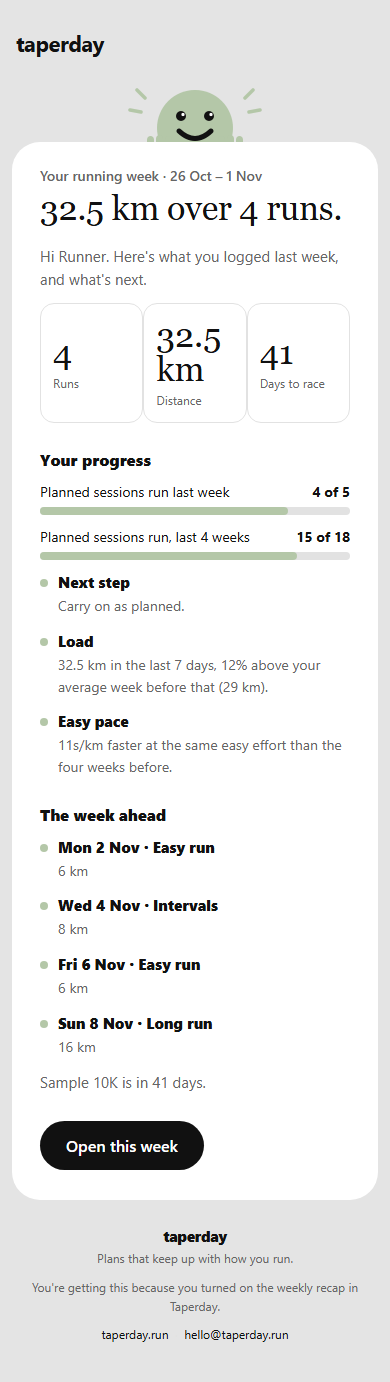
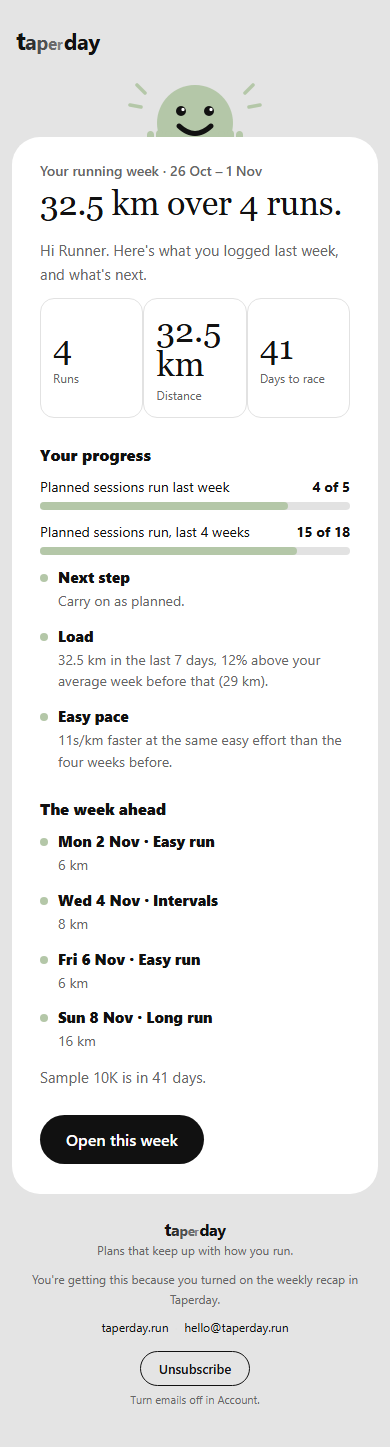
Brand: tapered wordmark in emails and loading screen; Unsubscribe button in every email (#164)

diff --git a/client/public/boot.css b/client/public/boot.css
@@ -6,5 +6,12 @@ html { color-scheme: light dark; background: #e4e4e4; }
 }
 .boot-screen { position: fixed; inset: 0; display: grid; align-content: center; justify-items: center; gap: 1rem; padding: 1rem; background: #e4e4e4; color: #3a3a3a; font: 1rem/1.5 system-ui, sans-serif; }
 .boot-screen p { margin: 0; }
-.boot-screen .boot-brand { color: #111111; font-size: 2rem; font-weight: 800; letter-spacing: -0.03em; }
+/* The logo (docs/brand.md): "taper" steps down a size and a shade per letter, "day" comes back full size. */
+.boot-screen .boot-brand { display: inline-flex; align-items: baseline; color: #111111; font-size: 2rem; font-weight: 700; letter-spacing: -0.03em; line-height: 1; }
 .boot-brand span { color: #111111; }
+.boot-brand .bw1 { font-size: 1.12em; }
+.boot-brand .bw2 { opacity: 0.85; }
+.boot-brand .bw3 { font-size: 0.88em; opacity: 0.7; }
+.boot-brand .bw4 { font-size: 0.79em; opacity: 0.58; }
+.boot-brand .bw5 { font-size: 0.7em; opacity: 0.48; }
+.boot-brand .bwd { margin-left: 0.06em; }

diff --git a/client/index.html b/client/index.html
@@ -34,7 +34,7 @@
   </head>
   <body>
     <link rel="stylesheet" href="/boot.css" />
-    <div id="root"><div class="boot-screen" role="status"><p class="boot-brand">Taper<span>day</span></p><p>Loading your running plan…</p><noscript>Enable JavaScript to build a plan.</noscript></div></div>
+    <div id="root"><div class="boot-screen" role="status"><p class="boot-brand" role="img" aria-label="Taperday"><span class="bw1">t</span><span class="bw2">a</span><span class="bw3">p</span><span class="bw4">e</span><span class="bw5">r</span><span class="bwd">day</span></p><p>Loading your running plan…</p><noscript>Enable JavaScript to build a plan.</noscript></div></div>
     <script type="module" src="/src/main.tsx"></script>
   </body>
 </html>

diff --git a/src/StartLine.Application/Features/Insights/EmailLayout.cs b/src/StartLine.Application/Features/Insights/EmailLayout.cs
@@ -25,10 +25,10 @@ public static class EmailLayout
 
     /// <summary>
     /// The whole email around a body: preheader, mascot, kicker and title, the body, one button and the footer. With an
-    /// <paramref name="unsubscribeUrl"/>, the footer ends with an Unsubscribe link: every email to runners that isn't
-    /// about their own account needs one.
+    /// <paramref name="unsubscribeUrl"/> (a runner's key for this email's list, <paramref name="unsubscribeFrom"/>), the footer's
+    /// Unsubscribe button stops that list; without one it goes to Account. Every email has the button.
     /// </summary>
-    public static string Wrap(string preheader, string kicker, string title, string body, string buttonText, string buttonUrl, string footer, string? unsubscribeUrl = null)
+    public static string Wrap(string preheader, string kicker, string title, string body, string buttonText, string buttonUrl, string footer, string? unsubscribeUrl = null, string unsubscribeFrom = "Taperday news and updates")
     {
         var html = new StringBuilder();
         html.Append(CultureInfo.InvariantCulture, $"""
@@ -37,7 +37,7 @@ public static class EmailLayout
             <div style="display:none;max-height:0;overflow:hidden;opacity:0;color:{Paper};">{Encode(preheader)}</div>
             <table role="presentation" width="100%" cellpadding="0" cellspacing="0" style="background:{Paper};"><tr><td align="center" style="padding:28px 12px 40px;">
             <table role="presentation" width="100%" cellpadding="0" cellspacing="0" style="max-width:560px;">
-            <tr><td style="padding:0 4px 18px;font-family:{Font};font-size:22px;font-weight:700;letter-spacing:-0.5px;"><span style="color:{Ink};">taper</span><span style="color:{Ink};">day</span></td></tr>
+            <tr><td style="padding:0 4px 18px;font-family:{Font};font-size:22px;font-weight:700;letter-spacing:-0.5px;line-height:1;">{Wordmark()}</td></tr>
             <tr><td align="center" style="line-height:0;"><img src="{Site}/email/peek.png" width="240" height="66" alt="The Taperday runner peeking over the page" style="display:block;border:0;width:240px;height:66px;"></td></tr>
             <tr><td style="background:{Surface};border-radius:28px;padding:12px 28px 30px;font-family:{Font};color:{Ink};">
             <p style="margin:12px 0 6px;font-size:14px;font-weight:600;color:{Muted};">{Encode(kicker)}</p>
@@ -46,21 +46,33 @@ public static class EmailLayout
             <table role="presentation" cellpadding="0" cellspacing="0" style="margin-top:26px;"><tr><td style="background:{Ink};border-radius:999px;"><a href="{buttonUrl}" style="display:inline-block;padding:14px 26px;font-family:{Font};font-size:16px;font-weight:600;color:{Surface};text-decoration:none;">{Encode(buttonText)}</a></td></tr></table>
             </td></tr>
             <tr><td align="center" style="padding:26px 8px 0;font-family:{Font};">
-            <div style="font-size:15px;font-weight:800;letter-spacing:-0.3px;"><span style="color:{Ink};">taper</span><span style="color:{Ink};">day</span></div>
+            <div style="font-size:16px;font-weight:700;letter-spacing:-0.3px;line-height:1;">{Wordmark()}</div>
             <div style="margin-top:4px;font-size:12px;color:{Muted};">Plans that keep up with how you run.</div>
             <div style="margin-top:12px;font-size:12px;line-height:1.6;color:{Muted};">{footer}</div>
             <div style="margin-top:10px;font-size:12px;"><a href="{Site}" style="color:{Ink};text-decoration:none;">taperday.run</a><span style="color:{Line};">&nbsp;&nbsp;·&nbsp;&nbsp;</span><a href="mailto:hello@taperday.run" style="color:{Ink};text-decoration:none;">hello@taperday.run</a></div>
-            {Unsubscribe(unsubscribeUrl)}
+            {Unsubscribe(unsubscribeUrl, unsubscribeFrom)}
             </td></tr>
             </table></td></tr></table></body></html>
             """);
         return html.ToString();
     }
 
-    // Small and volt like the other footer links, but on its own line and underlined, so it's easy to find and plainly a link.
-    private static string Unsubscribe(string? url) => url is null
-        ? ""
-        : string.Create(CultureInfo.InvariantCulture, $"<div style=\"margin-top:10px;font-size:12px;\"><a href=\"{Encode(url)}\" style=\"color:{Ink};text-decoration:underline;\">Unsubscribe</a><span style=\"color:{Muted};\"> from Taperday news and updates</span></div>");
+    /// <summary>
+    /// The logo, as on the site's masthead (docs/brand.md): "taper" a step smaller and lighter per letter, then "day" back at
+    /// full size. Shades are mixed with the grey ground rather than made with opacity, which some email apps ignore.
+    /// </summary>
+    public static string Wordmark() =>
+        "<span style=\"font-size:1.12em;color:#111111;\">t</span><span style=\"font-size:1em;color:#313131;\">a</span>"
+        + "<span style=\"font-size:0.88em;color:#505050;\">p</span><span style=\"font-size:0.79em;color:#6a6a6a;\">e</span>"
+        + "<span style=\"font-size:0.7em;color:#7f7f7f;\">r</span><span style=\"font-size:1em;color:#111111;margin-left:0.06em;\">day</span>";
+
+    // Every email ends with an Unsubscribe button. A runner's copy goes to their own key for this email's list; a preview to
+    // the maker has no key, so it goes to Account, where every email can be turned off.
+    private static string Unsubscribe(string? url, string from) => string.Create(CultureInfo.InvariantCulture, $"""
+        <table role="presentation" align="center" cellpadding="0" cellspacing="0" style="margin:16px auto 0;"><tr><td style="border:1px solid {Ink};border-radius:999px;"><a href="{Encode(url ?? Site + "/?view=account")}" style="display:inline-block;padding:8px 18px;font-family:{Font};font-size:13px;font-weight:600;color:{Ink};text-decoration:none;">Unsubscribe</a></td></tr></table>
+        <div style="margin-top:6px;font-size:11px;color:{Muted};">{(url is null ? "Turn emails off in Account." : "From " + Encode(from) + ". Other emails stay as they are.")}</div>
+        """);
+
 
     /// <summary>One item in a "what's new" list: a volt dot, a bold title and a line of detail.</summary>
     public static string Item(string title, string detail) =>

diff --git a/tests/StartLine.Integration.Tests/UnsubscribeTests.cs b/tests/StartLine.Integration.Tests/UnsubscribeTests.cs
@@ -122,12 +122,13 @@ public sealed class UnsubscribeTests(StartLineApiFactory factory) : IClassFixtur
     }
 
     [Fact]
-    public void An_email_without_unsubscribe_links_has_no_headers_or_footer_link()
+    public void An_email_without_unsubscribe_links_has_no_headers_and_its_button_goes_to_Account()
     {
         var preview = UpdateEmails.RacePlanV3("maker@example.com", test: true);
 
         BrevoEmailSender.Headers(preview.Unsubscribe).ShouldBeNull();
-        preview.Html.ShouldNotContain("Unsubscribe");
+        preview.Html.ShouldContain(">Unsubscribe</a>");
+        preview.Html.ShouldContain("https://taperday.run/?view=account");
     }
 }
 

diff --git a/src/StartLine.Application/Features/Insights/WeeklyRecaps.cs b/src/StartLine.Application/Features/Insights/WeeklyRecaps.cs
@@ -109,7 +109,8 @@ public static class WeeklyRecap
             buttonText: "Open this week",
             buttonUrl: EmailLayout.Site,
             footer: "You're getting this because you turned on the weekly recap in Taperday.",
-            unsubscribeUrl: unsubscribe?.Page.AbsoluteUri);
+            unsubscribeUrl: unsubscribe?.Page.AbsoluteUri,
+            unsubscribeFrom: "the weekly recap");
 
         var text = new StringBuilder($"Hi {name}.\n\nYour running week, {span}: {Plural(recap.Runs, "run")}, {km} km.");
         if (recap is { SessionsPlanned: > 0, SessionsDone: { } ran })

diff --git a/docs/brand.md b/docs/brand.md
@@ -10,22 +10,23 @@
 
 A taper is the last few weeks before a race, when training volume steps down so you arrive fresh.
 The logo does exactly that: the letters of "taper" each get a step smaller and lighter, then "day"
-comes back at full size in volt. Race day, fresh.
+comes back at full size. Race day, fresh.
 
-The site's look is "Night run": near-black, one electric volt accent, frosted glass. Its full description,
-motion rules included, is in `docs/design/night-run/README.md`.
+The site's look is **Frame**: a grey page, a white rounded frame, Instrument Serif over Instrument Sans, sage as the one colour,
+with a dark mode. Its full description is in `docs/design/race-signal/style_guide.md`.
 
 ## Logo (the wordmark)
 
-| Part | On the dark site | On paper (print) |
+| Part | Light | Dark |
 |---|---|---|
-| "taper" | `#f2f2f2`, fading by step | Ink `#111111`, fading by step |
-| "day" | Volt `#d7ff3e` | Ink `#111111` |
+| "taper" | Ink `#111111`, fading by step | `#f2f2f2`, fading by step |
+| "day" | Ink `#111111` | `#f2f2f2` |
 
 In the app the colours come from the `--ink` and `--accent` tokens (`client/src/styles/tokens.css`),
 so dark mode follows automatically. Don't hard-code them in components.
 
-- **Type:** Bricolage Grotesque, bold, letter-spacing −0.03em, letters sitting on one baseline.
+- **Type:** Instrument Sans, bold, letter-spacing −0.03em, letters sitting on one baseline.
+- **Everywhere the logo appears, it's this taper:** the masthead, the sign-in intro, the loading screen (`client/index.html`, `client/public/boot.css`) and every email's header and footer (`EmailLayout.Wordmark`, where the fades are solid greys mixed with the page, as some email apps ignore opacity). In sentences it stays **Taperday**.
 - **The taper**, relative to the size of "day":
 
   | Letter | t | a | p | e | r | day |
